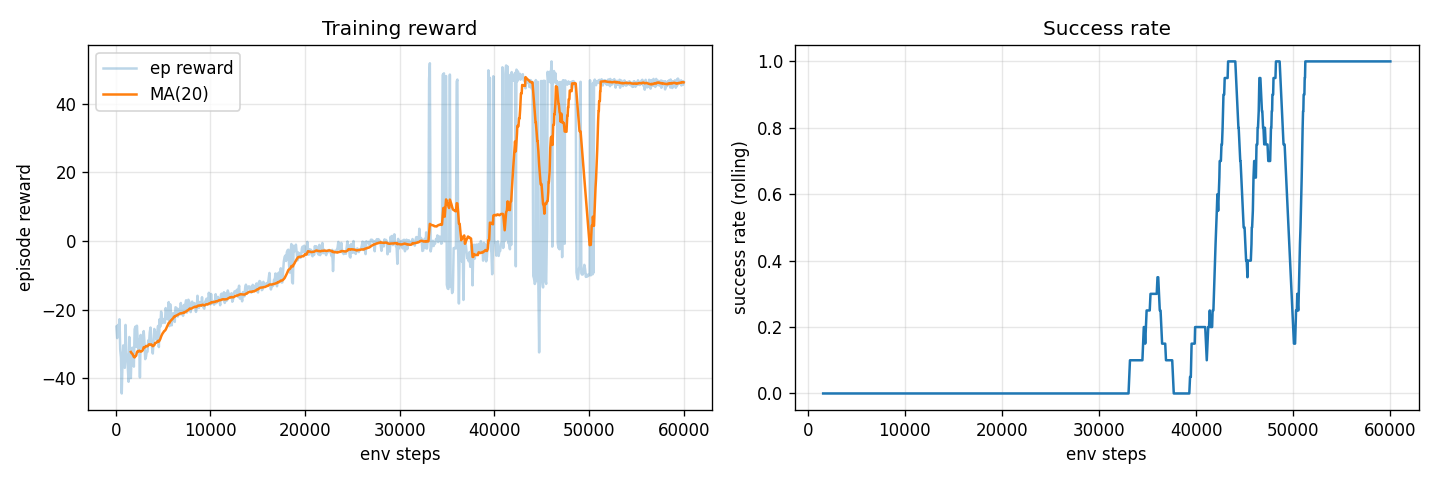
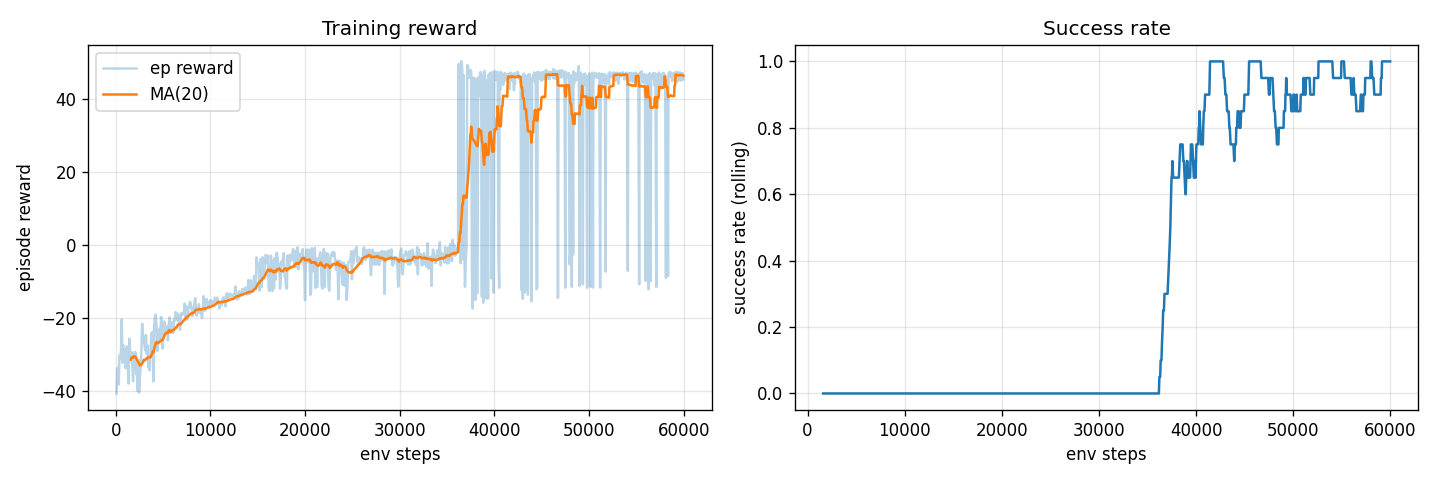
ImprovemenetsC:\Users\jonas\Desktop\6_semestras\ML2\Robotas\pull_box\.venv\Scripts\activate.bat

diff --git a/env.py b/env.py
@@ -44,10 +44,15 @@ class PullBoxEnv(gym.Env):
         self.plane = p.loadURDF("plane.urdf", physicsClientId=self.client)
         self.arm = p.loadURDF(ARM_URDF, basePosition=ARM_BASE, useFixedBase=True, physicsClientId=self.client)
         self.j_idx = []
+        self.finger_idx = []
         for i in range(p.getNumJoints(self.arm, physicsClientId=self.client)):
             info = p.getJointInfo(self.arm, i, physicsClientId=self.client)
+            jname = info[1].decode()
             if info[2] == p.JOINT_REVOLUTE:
                 self.j_idx.append(i)
+            if info[2] == p.JOINT_PRISMATIC and jname in ("fl", "fr"):
+                self.finger_idx.append(i)
+                p.changeDynamics(self.arm, i, lateralFriction=2.0, physicsClientId=self.client)
             if info[12].decode() == "ee":
                 self.ee_link = i
         self._build_box()
@@ -88,6 +93,8 @@ class PullBoxEnv(gym.Env):
             self.constraint = None
         for i, j in enumerate(self.j_idx):
             p.resetJointState(self.arm, j, J_INIT[i], physicsClientId=self.client)
+        for j in self.finger_idx:
+            p.resetJointState(self.arm, j, 0.04, physicsClientId=self.client)
         bx = self.np_random.uniform(-BOX_HALF + BALL_R + 0.005, BOX_HALF - BALL_R - 0.005)
         by = self.np_random.uniform(-BOX_HALF + BALL_R + 0.005, BOX_HALF - BALL_R - 0.005)
         p.resetBasePositionAndOrientation(self.ball, [bx, by, BALL_R + 0.002], [0, 0, 0, 1], physicsClientId=self.client)
@@ -142,6 +149,12 @@ class PullBoxEnv(gym.Env):
             tgt = float(np.clip(tgt, lo, hi))
             p.setJointMotorControl2(self.arm, j, p.POSITION_CONTROL, targetPosition=tgt,
                                     force=40, maxVelocity=3, physicsClientId=self.client)
+        finger_target = 0.012 if action[3] > 0 else 0.04
+        for j in self.finger_idx:
+            p.setJointMotorControl2(self.arm, j, p.POSITION_CONTROL,
+                                    targetPosition=finger_target,
+                                    force=20, maxVelocity=0.5,
+                                    physicsClientId=self.client)
         self._try_grasp(action[3])
         for _ in range(SUBSTEPS):
             p.stepSimulation(physicsClientId=self.client)
